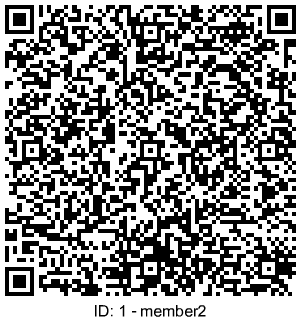
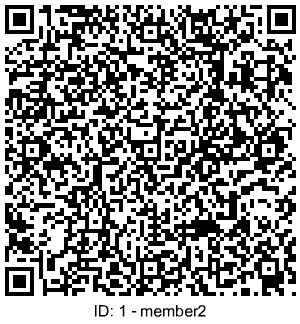
updating qr scanning

diff --git a/wicebd-client/src/pages/admin/QrCode.jsx b/wicebd-client/src/pages/admin/QrCode.jsx
@@ -1,17 +1,7 @@
 import { useEffect, useRef, useState } from 'react';
 import { Html5QrcodeScanner } from 'html5-qrcode';
-import QRCode from 'react-qr-code';
-import { motion, AnimatePresence } from 'framer-motion';
-
-const sampleQRData = JSON.stringify({
-  projectTitle: "Smart City Initiative",
-  institution: "Tech University",
-  leader: "Dr. Sarah Johnson",
-  leaderPhone: "+1 (555) 123-4567",
-  leaderEmail: "s.johnson@tech.edu",
-  memberName: "Alex Chen",
-  memberInstitution: "Tech University"
-});
+import { motion } from 'framer-motion';
+import axios from 'axios';
 
 export default function AdminDashboard() {
   const [scanResult, setScanResult] = useState(null);
@@ -19,33 +9,53 @@ export default function AdminDashboard() {
   const [scannerReady, setScannerReady] = useState(false);
   const scannerRef = useRef(null);
 
-  useEffect(() => {
-    if (scannerReady && !scanResult) {
-      const scanner = new Html5QrcodeScanner("qr-reader", {
-        fps: 10,
-        qrbox: { width: 250, height: 250 },
-      });
+  const api = axios.create({
+    baseURL: import.meta.env.VITE_BACKEND_URL || 'http://localhost:5000',
+  });
 
-      scanner.render(
-        (text) => {
-          try {
-            const parsed = JSON.parse(text);
-            setScanResult(parsed);
-            scanner.clear();
-          } catch (err) {
-            setError("Invalid QR Code Data");
-          }
-        },
-        (err) => {
-          console.warn("QR Scan Error:", err);
+ useEffect(() => {
+  if (scannerReady && !scanResult) {
+    const scanner = new Html5QrcodeScanner("qr-reader", {
+      fps: 10,
+      qrbox: { width: 250, height: 250 },
+    });
+
+    scanner.render(
+      async (text) => {
+        try {
+          const url = new URL(text);
+          const dataParam = url.searchParams.get('data');
+          if (!dataParam) throw new Error("Missing 'data' in QR code");
+
+          const decoded = decodeURIComponent(dataParam);
+          const qrPayload = JSON.parse(decoded);
+
+          const { registrationId, memberType, token } = qrPayload;
+
+          const response = await api.post('/api/qr/verify-qr', {
+            registrationId,
+            memberType,
+            token,
+          });
+
+          setScanResult(response.data);
+          scanner.clear(); // Stop scanner on successful scan
+        } catch (err) {
+          console.error(err);
+          setError(err.message || "Failed to scan QR code");
         }
-      );
-    }
-  }, [scannerReady]);
+      },
+      (err) => {
+        console.warn("QR Scan Error:", err);
+      }
+    );
+  }
+}, [scannerReady]);
+
 
   return (
     <div className="min-h-screen bg-gradient-to-br from-blue-50 to-indigo-100 p-6">
-      <motion.div 
+      <motion.div
         initial={{ opacity: 0, y: 20 }}
         animate={{ opacity: 1, y: 0 }}
         transition={{ duration: 0.5 }}
@@ -57,16 +67,6 @@ export default function AdminDashboard() {
         </div>
 
         <div className="p-6 space-y-6">
-          {/* Test QR */}
-          <div className="bg-blue-50 p-4 rounded-lg border border-blue-200">
-            <h2 className="text-lg font-semibold text-blue-800 mb-2">Test QR Code</h2>
-            <div className="flex justify-center">
-              <QRCode value={sampleQRData} size={160} />
-            </div>
-            <p className="text-sm text-center mt-2 text-gray-600">Scan this code for demo</p>
-          </div>
-
-          {/* Scanner Section */}
           {!scannerReady && !scanResult && (
             <button
               onClick={() => setScannerReady(true)}
@@ -82,12 +82,9 @@ export default function AdminDashboard() {
             </div>
           )}
 
-          {/* Scan result */}
           {scanResult && (
             <div className="border border-gray-200 rounded-xl p-6 bg-gradient-to-br from-gray-50 to-blue-50 shadow-sm">
-              <h2 className="text-2xl font-bold mb-4 text-blue-800">
-                {scanResult.projectTitle}
-              </h2>
+              <h2 className="text-2xl font-bold mb-4 text-blue-800">{scanResult.projectTitle}</h2>
 
               {scanResult.memberName ? (
                 <div>

diff --git a/wicebd-server/generateQRCodes.js b/wicebd-server/generateQRCodes.js
@@ -42,34 +42,32 @@ async function generateAllQRCodes() {
   }
 }
 
-async function generateQR(registrationId, memberType) {
+const generateQR = async (registrationId, memberType) => {
   const token = uuidv4();
+
   const qrPayload = {
-  registrationId,
-  memberType,
-  token
-};
+    registrationId,
+    memberType,
+    token,
+  };
 
-const qrContent = `https://www.wicebd.com/admin/qr-code?data=${encodeURIComponent(JSON.stringify(qrPayload))}`;
-
+  const payloadString = JSON.stringify(qrPayload);
+  const encodedPayload = encodeURIComponent(payloadString);
+  const qrContent = `https://www.wicebd.com/admin/qr-code?data=${encodedPayload}`;
 
   try {
-    // Save to DB
+    // Save token to DB first
     await db.query(
       'INSERT INTO qr_verification (registration_id, member_type, verification_hash) VALUES (?, ?, ?)',
       [registrationId, memberType, token]
     );
 
-    // Generate QR buffer
+    // Generate QR code as buffer
     const qrBuffer = await QRCode.toBuffer(qrContent, {
       errorCorrectionLevel: 'H',
       type: 'png',
       margin: 1,
       width: 300,
-      color: {
-        dark: '#000000',
-        light: '#FFFFFF'
-      }
     });
 
     const qrImage = await Jimp.read(qrBuffer);
@@ -91,7 +89,7 @@ const qrContent = `https://www.wicebd.com/admin/qr-code?data=${encodeURIComponen
       {
         text: label,
         alignmentX: Jimp.HORIZONTAL_ALIGN_CENTER,
-        alignmentY: Jimp.VERTICAL_ALIGN_TOP
+        alignmentY: Jimp.VERTICAL_ALIGN_TOP,
       },
       qrImage.bitmap.width,
       labelHeight
@@ -106,8 +104,7 @@ const qrContent = `https://www.wicebd.com/admin/qr-code?data=${encodeURIComponen
     console.error(`❌ Failed to generate QR for ${registrationId}-${memberType}:`, err.message);
     throw err;
   }
-}
-
+};
 
 generateAllQRCodes()
   .then(() => process.exit(0))

diff --git a/wicebd-server/index.js b/wicebd-server/index.js
@@ -8,6 +8,7 @@ const registrationRoutes = require('./routes/registerRoute');
 const olympiadRoutes = require('./routes/olympiadRoutes');
 const adminRoutes = require('./routes/adminRoutes');
 const authRoutes = require('./routes/authRoutes');
+const qr = require('./routes/qr');
 
 // Parse JSON
 app.use(express.json());
@@ -31,6 +32,7 @@ app.use('/api/olympiad', olympiadRoutes);
 //admin routes
 app.use('/api/admin', adminRoutes);
 app.use('/api/auth', authRoutes);
+app.use('/api/qr', qr);
 
 const PORT = process.env.PORT || 5000;
 app.listen(PORT, () => {
